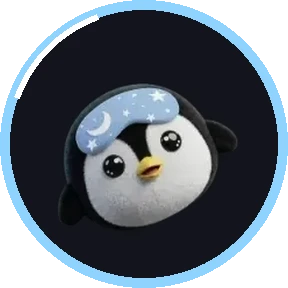
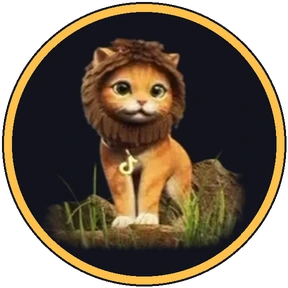
がっちゃんこ：コマを バラ→ローザ→歌うキノコ→コーギー→マネーガン→銀河→クジラ→レオン→ハヤブサ→ライオン→Universe に変更
Claude-Session: https://claude.ai/code/session_01HLDAdxR8EuB7ryd8AUY3Hp

diff --git a/gmerge/index.html b/gmerge/index.html
@@ -151,7 +151,7 @@ canvas{touch-action:none;user-select:none;-webkit-user-select:none}
   </div>
   <div id="cfg" hidden>
     <div class="top"><div id="embedNote" hidden style="background:#5a1020;border:3px solid #ff6a80;border-radius:.6em;padding:.6em .8em;margin:.2em 0 .6em;font-weight:900;line-height:1.5">このページ（Claudeの共有ページ）では、スマホだけの配信（ギフトの受け取り）は動きません。<br>Safariでこちらを開いてください：<br><a href="https://sanpolab.github.io/jan/gmerge/" target="_blank" rel="noopener" style="color:#ffe680;word-break:break-all">https://sanpolab.github.io/jan/gmerge/</a></div>
-<h2>ギフト設定 <small id="verTag" style="font-size:.5em;font-weight:700;color:#9ab;margin-left:.6em">版 11/26 21:21</small></h2>
+<h2>ギフト設定 <small id="verTag" style="font-size:.5em;font-weight:700;color:#9ab;margin-left:.6em">版 11/26 22:36</small></h2>
     <div id="missBox" hidden><h3 style="color:#ff9aa8">届いたけど、どの効果か分からなかったギフト</h3>
     <p>スマホ用のつなぎ先は、ギフトの名前を英語で送ってくることがあります。下で「どの効果のギフトか」を1回えらぶと、次からは自動で反応します（コイン数が同じ効果だけを出しています）。</p>
     <div id="missList"></div></div>
@@ -175,7 +175,7 @@ canvas{touch-action:none;user-select:none;-webkit-user-select:none}
     <p id="tblNote">このChromeで開いた表は、ギフトを変えると数秒で自動で変わります。配信ソフトにURLを貼る場合は、ギフトを変えたあとにもう一度コピーして貼り直してください。</p>
     <h3>ギフト以外</h3>
     <div class="row jam"><div class="nm">コメント<small>バラが1個ふってくる（同じ人は20秒に1回）</small></div><button id="optChat" type="button"></button></div>
-    <div class="row jam"><div class="nm">いいね1000回<small>フィンガーハートが1個ふってくる</small></div><button id="optLike" type="button"></button></div>
+    <div class="row jam"><div class="nm">いいね1000回<small>ローザが1個ふってくる</small></div><button id="optLike" type="button"></button></div>
     <div class="row help"><div class="nm">フォロー<small>ローザが1個ふってくる</small></div><button id="optFollow" type="button"></button></div>
     <div class="row both"><div class="nm">ギフト表のコイン数<small>オフにすると、ギフト表のギフトの絵にコイン数を出さない</small></div><button id="optCoin" type="button"></button></div>
     <h3>画面にのせる文字と写真（スマホの縦画面）</h3>
@@ -200,11 +200,11 @@ canvas{touch-action:none;user-select:none;-webkit-user-select:none}
   </div>
   <div id="tp" hidden>
     <h3>ギフトのコマをふらせる</h3>
-    <button class="j" data-a="drop0">バラ<br>1コイン</button><button class="j" data-a="drop1">フィンガーハート<br>5コイン</button><button class="j" data-a="drop2">ローザ<br>10コイン</button><button class="j" data-a="drop3">香水<br>20コイン</button><button class="j" data-a="drop4">ドーナッツ<br>30コイン</button><button class="j" data-a="drop5">ハンドハート<br>100コイン</button><button class="j" data-a="drop6">愛してる<br>199コイン</button><button class="j" data-a="drop7">うっとりペンギン<br>299コイン</button><button class="j" data-a="drop8">だいすき<br>500コイン</button><button class="j" data-a="drop9">銀河<br>1,000コイン</button><button class="j" data-a="drop10">ライオン<br>29,999コイン</button>
+    <button class="j" data-a="drop0">バラ<br>1コイン</button><button class="j" data-a="drop1">ローザ<br>10コイン</button><button class="j" data-a="drop2">歌うキノコ<br>99コイン</button><button class="j" data-a="drop3">コーギー<br>299コイン</button><button class="j" data-a="drop4">マネーガン<br>1,016コイン</button><button class="j" data-a="drop5">銀河<br>1,000コイン</button><button class="j" data-a="drop6">クジラのダイビング<br>2,150コイン</button><button class="j" data-a="drop7">子猫のレオン<br>4,888コイン</button><button class="j" data-a="drop8">ハヤブサ<br>10,999コイン</button><button class="j" data-a="drop9">ライオン<br>29,999コイン</button><button class="j" data-a="drop10">TikTokUniverse<br>44,999コイン</button>
     <h3>そのほかの効果</h3>
     <button class="j" data-a="shake">ゆらす<br>箱をガタガタゆらす</button><button class="h" data-a="clean">おそうじ<br>小さいコマをぜんぶ消す</button>
     <h3>無料（コメント・いいね・フォロー）</h3>
-    <button class="j" data-a="comment">コメント<br>バラ1個</button><button class="j" data-a="like">いいね×1000<br>フィンガーハート1個</button><button class="j" data-a="follow">フォロー<br>ローザ1個</button>
+    <button class="j" data-a="comment">コメント<br>バラ1個</button><button class="j" data-a="like">いいね×1000<br>ローザ1個</button><button class="j" data-a="follow">フォロー<br>ローザ1個</button>
     <h3>音</h3>
     <button class="g" id="optBgm">BGM</button><button class="g" id="optSe">効果音</button><button class="g" id="optTrack">曲</button>
     <h3>その他</h3>
@@ -216,7 +216,7 @@ canvas{touch-action:none;user-select:none;-webkit-user-select:none}
 <script>
 'use strict';
 const cv=document.getElementById('cv'), g=cv.getContext('2d'), stage=document.getElementById('stage');
-const VER='1126-212129';
+const VER='1126-223651';
 let TITLE=true, PAUSE=false; const PENDQ=[];   /* TITLE＝タイトル画面を出しているか、PAUSE＝一時停止中か、PENDQ＝一時停止の間に届いたギフト（再開したら順番に出す） */
 /* ===== ギフトがっちゃんこ：同じギフト同士がくっつくと、ひとつ上のギフトに進化する「くっつけ落としゲーム」。
    配信者が左右に動かして落とす。視聴者がギフトを投げると、そのギフトのコマが箱の中にふってくる。箱からあふれたら終わり。WINはなく、スコアとベストスコアだけ ===== */
@@ -226,9 +226,7 @@ const rand=(a,b)=>a+Math.random()*(b-a), clamp=(v,a,b)=>Math.max(a,Math.min(b,v)
 const BOX={x0:300,x1:780,top:250,bot:1010,line:318};
 /* コマ（11段階）。r＝半径、pts＝この段階ができた時にもらえる点 */
 const LV=[
- {name:'バラ',coins:1,r:27,pts:1,col:'#ff5c7a'},{name:'フィンガーハート',coins:5,r:37,pts:3,col:'#ffb347'},{name:'ローザ',coins:10,r:49,pts:6,col:'#ff7ad1'},{name:'香水',coins:20,r:61,pts:10,col:'#ff5fa2'},
- {name:'ドーナッツ',coins:30,r:75,pts:15,col:'#6fd8ff'},{name:'ハンドハート',coins:100,r:91,pts:21,col:'#c08bff'},{name:'愛してる',coins:199,r:108,pts:28,col:'#ff8ad8'},{name:'うっとりペンギン',coins:299,r:127,pts:36,col:'#8fd3ff'},
- {name:'だいすき',coins:500,r:148,pts:45,col:'#ffd23f'},{name:'銀河',coins:1000,r:171,pts:55,col:'#7aa2ff'},{name:'ライオン',coins:29999,r:196,pts:66,col:'#ffb300'}];
+ {name:'バラ',coins:1,r:27,pts:1,col:'#ff5c7a'},{name:'ローザ',coins:10,r:37,pts:3,col:'#ff7ad1'},{name:'歌うキノコ',coins:99,r:49,pts:6,col:'#ff6b5c'},{name:'コーギー',coins:299,r:61,pts:10,col:'#ffb347'},{name:'マネーガン',coins:1016,r:75,pts:15,col:'#ff8ad8'},{name:'銀河',coins:1000,r:91,pts:21,col:'#7aa2ff'},{name:'クジラのダイビング',coins:2150,r:108,pts:28,col:'#8fd3ff'},{name:'子猫のレオン',coins:4888,r:127,pts:36,col:'#ffb300'},{name:'ハヤブサ',coins:10999,r:148,pts:45,col:'#c98a4a'},{name:'ライオン',coins:29999,r:171,pts:55,col:'#ffb300'},{name:'TikTok Universe',coins:44999,r:196,pts:66,col:'#6fd8ff'}];
 const CFG={dropCd:.55, nextMax:4, overSec:2.2, graceSec:1.3, maxBodies:140, lionBonus:300, shakeSec:1.6, overWait:6};
 const IMG={}; for(let i=0;i<LV.length;i++){ const im=new Image(); im.src='./img/g'+i+'.webp'; IMG['g'+i]=im; }
 const ok=k=>IMG[k] && IMG[k].complete && IMG[k].naturalWidth>0;
@@ -251,7 +249,7 @@ Events.on(engine,'collisionStart',ev=>{ for(const p of ev.pairs){ const a=p.body
 function doMerges(){ while(mergeQ.length){ const [a,b]=mergeQ.shift(); const lv=a.lv, x=(a.position.x+b.position.x)/2, y=(a.position.y+b.position.y)/2, by=a.by||b.by; Composite.remove(engine.world,a); Composite.remove(engine.world,b);
     if(lv<LV.length-1){ const n=spawn(lv+1,x,y,null); n.born=T-9; Body.setVelocity(n,{x:(a.velocity.x+b.velocity.x)/2,y:(a.velocity.y+b.velocity.y)/2}); S.score+=LV[lv+1].pts; S.biggest=Math.max(S.biggest,lv+1); burst(x,y,LV[lv+1].col,10+lv*2,260+lv*30); S.rings.push({x,y,r:LV[lv+1].r,t:.35,c:LV[lv+1].col}); play(lv>=6?'levelup':lv>=3?'harp2':'pon',.5+lv*.04);
       if(lv+1>=8){ banner(LV[lv+1].name+' ができた！',LV[lv+1].col,'＋'+LV[lv+1].pts+'点'); S.flash=.25; play('cheer',.6); } }
-    else { S.score+=CFG.lionBonus; burst(x,y,'#ffb300',60,700); S.rings.push({x,y,r:260,t:.6,c:'#ffd23f'}); S.flash=.5; S.shake=.6; banner('ライオン同士がくっついた！','#ffd23f','ボーナス ＋'+CFG.lionBonus+'点'); play('cheer',.9); play('levelup',.8); }
+    else { S.score+=CFG.lionBonus; burst(x,y,'#ffb300',60,700); S.rings.push({x,y,r:260,t:.6,c:'#ffd23f'}); S.flash=.5; S.shake=.6; banner('ユニバース同士がくっついた！','#ffd23f','ボーナス ＋'+CFG.lionBonus+'点'); play('cheer',.9); play('levelup',.8); }
     if(S.score>best){ if(!S.newBest && best>0){ S.newBest=true; logAdd('ベストスコア更新中！','#ffd23f'); } best=S.score; } } }
 
 /* ===== 音（効果音は効果音ラボ、BGMは甘茶の音楽工房） ===== */
@@ -285,9 +283,9 @@ const Game={
   reset(){ reset(); },
   /* ゆらす：箱の中のコマをぜんぶガタガタゆらす */
   shake(n){ if(S.mode!=='play') return; S.shakeT=CFG.shakeSec; S.shake=Math.max(S.shake,.5); play('heavy',.7); play('don',.6); logAdd((n||'だれか')+' が箱をゆらした','#ff9aa8'); },
-  /* おそうじ：いちばん小さい2段階（バラ・フィンガーハート）をぜんぶ消す */
+  /* おそうじ：いちばん小さい2段階（バラ・ローザ）をぜんぶ消す */
   clean(n){ if(S.mode!=='play') return; let c=0; for(const b of pieces()){ if(b.lv<=1 && !b.gone){ b.gone=true; burst(b.position.x,b.position.y,'#5dffb0',6,220); Composite.remove(engine.world,b); c++; } } play('harp',.7); S.flash=.2; logAdd((n||'だれか')+' のおそうじ：小さいコマを'+c+'個消した','#5dffb0'); },
-  /* 無料の反応。コメント＝バラ1個（同じ人は20秒に1回）、いいね1000回ごと＝フィンガーハート1個、フォロー＝ローザ1個 */
+  /* 無料の反応。コメント＝バラ1個（同じ人は20秒に1回）、いいね1000回ごと＝ローザ1個、フォロー＝ローザ1個 */
   comment(n){ const now=performance.now(), k=String(n||''); if(CMT[k] && now-CMT[k]<20000) return; CMT[k]=now; giftDrop(0,n); },
   like(c,n){ likeAcc+=Math.max(1,c|0); let k=0; while(likeAcc>=1000 && k<3){ likeAcc-=1000; k++; giftDrop(1,n); } if(likeAcc>=1000) likeAcc=likeAcc%1000; },
   follow(n){ giftDrop(2,n); } };
@@ -368,18 +366,18 @@ function optSave(){ try{ localStorage.setItem('gmerge_opts',JSON.stringify(OPT))
 function runFx(fn){ if(TITLE){ tfLogAdd('タイトル画面なので何も起きません（スタートを押してください）'); return; } if(PAUSE){ PENDQ.push(fn); return; } fn(); }
 const FX_LIST=[
  ['drop0','jam','バラ','このギフトのコマが箱にふってくる',n=>Game.drop0(n)],
- ['drop1','jam','フィンガーハート','このギフトのコマが箱にふってくる',n=>Game.drop1(n)],
- ['drop2','jam','ローザ','このギフトのコマが箱にふってくる',n=>Game.drop2(n)],
- ['drop3','jam','香水','このギフトのコマが箱にふってくる',n=>Game.drop3(n)],
- ['drop4','jam','ドーナッツ','このギフトのコマが箱にふってくる',n=>Game.drop4(n)],
- ['drop5','jam','ハンドハート','このギフトのコマが箱にふってくる',n=>Game.drop5(n)],
- ['drop6','jam','愛してる','このギフトのコマが箱にふってくる',n=>Game.drop6(n)],
- ['drop7','jam','うっとりペンギン','このギフトのコマが箱にふってくる',n=>Game.drop7(n)],
- ['drop8','jam','だいすき','このギフトのコマが箱にふってくる',n=>Game.drop8(n)],
- ['drop9','jam','銀河','このギフトのコマが箱にふってくる',n=>Game.drop9(n)],
- ['drop10','jam','ライオン','このギフトのコマが箱にふってくる',n=>Game.drop10(n)],
+ ['drop1','jam','ローザ','このギフトのコマが箱にふってくる',n=>Game.drop1(n)],
+ ['drop2','jam','歌うキノコ','このギフトのコマが箱にふってくる',n=>Game.drop2(n)],
+ ['drop3','jam','コーギー','このギフトのコマが箱にふってくる',n=>Game.drop3(n)],
+ ['drop4','jam','マネーガン','このギフトのコマが箱にふってくる',n=>Game.drop4(n)],
+ ['drop5','jam','銀河','このギフトのコマが箱にふってくる',n=>Game.drop5(n)],
+ ['drop6','jam','クジラのダイビング','このギフトのコマが箱にふってくる',n=>Game.drop6(n)],
+ ['drop7','jam','子猫のレオン','このギフトのコマが箱にふってくる',n=>Game.drop7(n)],
+ ['drop8','jam','ハヤブサ','このギフトのコマが箱にふってくる',n=>Game.drop8(n)],
+ ['drop9','jam','ライオン','このギフトのコマが箱にふってくる',n=>Game.drop9(n)],
+ ['drop10','jam','TikTokUniverse','このギフトのコマが箱にふってくる',n=>Game.drop10(n)],
  ['shake','jam','ゆらす','箱の中をガタガタゆらす',n=>Game.shake(n)],
- ['clean','help','おそうじ','小さいコマ（バラ・フィンガーハート）をぜんぶ消す',n=>Game.clean(n)]];
+ ['clean','help','おそうじ','小さいコマ（バラ・ローザ）をぜんぶ消す',n=>Game.clean(n)]];
 /* スマホ用のつなぎ先（tik.tools）。オンの間はTikFinityのかわりに、ネット経由で同じ形の知らせを受け取る。キーはこの端末にだけ保存 */
 const HOME_URL='https://sanpolab.github.io/jan/gmerge/', EMBED=!/(^|\.)github\.io$|^localhost$|^127\./.test(location.hostname);   // EMBED：Claudeの共有ページなど、正式なアドレス以外で開いている
 let CLOUD={on:false,user:'',key:''}; try{ Object.assign(CLOUD,JSON.parse(localStorage.getItem('gmerge_cloud')||'{}')); }catch(e){}
@@ -390,7 +388,7 @@ const TF={raw:[],kinds:{},tries:0,lna:null,urls:['ws://localhost:21213/','ws://1
 try{ TF.map=JSON.parse(localStorage.getItem('gmerge_gifts')||'{}')||{}; }catch(e){ TF.map={}; }
 const tfNorm=t=>String(t||'').trim().toLowerCase().replace(/\s+/g,'').replace(/！/g,'!').replace(/？/g,'?').replace(/[〜～]/g,'~').replace(/[．。]/g,'.');
 /* はじめて開いた時だけ、ギフトの割り当てのたたき台を入れる（あとから自由に変えられる） */
-if(!localStorage.getItem('gmerge_gdef')){ try{ localStorage.setItem('gmerge_gdef','1'); }catch(e){} if(!Object.keys(TF.map).some(k=>TF.map[k] && TF.map[k].name)){ TF.map={"drop0": {"id": null, "name": "バラ", "coins": 1, "ci": 1, "pic": null}, "drop1": {"id": null, "name": "フィンガーハート", "coins": 5, "ci": 28, "pic": null}, "drop2": {"id": null, "name": "ローザ", "coins": 10, "ci": 37, "pic": null}, "drop3": {"id": null, "name": "香水", "coins": 20, "ci": 55, "pic": null}, "drop4": {"id": null, "name": "ドーナッツ", "coins": 30, "ci": 58, "pic": null}, "drop5": {"id": null, "name": "ハンドハート", "coins": 100, "ci": 87, "pic": null}, "drop6": {"id": null, "name": "愛してる", "coins": 199, "ci": 107, "pic": null}, "drop7": {"id": null, "name": "うっとりペンギン", "coins": 299, "ci": 174, "pic": null}, "drop8": {"id": null, "name": "だいすき", "coins": 500, "ci": 310, "pic": null}, "drop9": {"id": null, "name": "銀河", "coins": 1000, "ci": 347, "pic": null}, "drop10": {"id": null, "name": "ライオン", "coins": 29999, "ci": 464, "pic": null}}; try{ localStorage.setItem('gmerge_gifts',JSON.stringify(TF.map)); }catch(e){} } }
+if(!localStorage.getItem('gmerge_gdef')){ try{ localStorage.setItem('gmerge_gdef','1'); }catch(e){} if(!Object.keys(TF.map).some(k=>TF.map[k] && TF.map[k].name)){ TF.map={"drop0": {"id": null, "name": "バラ", "coins": 1, "ci": 1, "pic": null}, "drop1": {"id": null, "name": "ローザ", "coins": 10, "ci": 37, "pic": null}, "drop2": {"id": null, "name": "歌うキノコ", "coins": 99, "ci": 63, "pic": null}, "drop3": {"id": null, "name": "コーギー", "coins": 299, "ci": 155, "pic": null}, "drop4": {"id": null, "name": "マネーガン", "coins": 1016, "ci": 357, "pic": null}, "drop5": {"id": null, "name": "銀河", "coins": 1000, "ci": 347, "pic": null}, "drop6": {"id": null, "name": "クジラのダイビング", "coins": 2150, "ci": 389, "pic": null}, "drop7": {"id": null, "name": "子猫のレオン", "coins": 4888, "ci": 413, "pic": null}, "drop8": {"id": null, "name": "ハヤブサ", "coins": 10999, "ci": 439, "pic": null}, "drop9": {"id": null, "name": "ライオン", "coins": 29999, "ci": 464, "pic": null}, "drop10": {"id": null, "name": "TikTokUniverse", "coins": 44999, "ci": 474, "pic": null}}; try{ localStorage.setItem('gmerge_gifts',JSON.stringify(TF.map)); }catch(e){} } }
 function tfSave(){ try{ localStorage.setItem('gmerge_gifts',JSON.stringify(TF.map)); }catch(e){} }
 // 名前が合わずに「割り当てなし」になったギフトを覚えておき、設定画面で「どの効果か」を1回えらべば、届いた名前とIDをその効果に結びつける
 let MISS=[]; try{ MISS=JSON.parse(localStorage.getItem('gmerge_miss')||'[]')||[]; }catch(e){}
@@ -496,7 +494,7 @@ function pickDraw(){ const tb=document.getElementById('pickTabs'); tb.innerHTML=
     b.appendChild(gi); b.appendChild(sp); b.appendChild(em); b.addEventListener('click',()=>{ TF.map[pickFx[0]]={id:null,name:e[0],coins:e[1],ci:i,pic:null}; tfSave(); document.getElementById('pick').hidden=true; cfgBuild(); }); fr.appendChild(b); });
   g.appendChild(fr); if(!g.children.length){ const d=document.createElement('p'); d.textContent='見つかりませんでした'; g.appendChild(d); } }
 /* ギフト表に出す名前（自分で変えた分だけ入る）。TBL_NAME=元の名前 */
-const TBL_NAME={"drop0": "バラ", "drop1": "フィンガーハート", "drop2": "ローザ", "drop3": "香水", "drop4": "ドーナッツ", "drop5": "ハンドハート", "drop6": "愛してる", "drop7": "うっとりペンギン", "drop8": "だいすき", "drop9": "銀河", "drop10": "ライオン", "shake": "箱をゆらす", "clean": "小さいの消す"}; let LBL={}; try{ LBL=JSON.parse(localStorage.getItem('gmerge_lbl')||'{}')||{}; }catch(e){ LBL={}; } function lblSave(){ try{ localStorage.setItem('gmerge_lbl',JSON.stringify(LBL)); }catch(e){} }
+const TBL_NAME={"drop0": "バラ", "drop1": "ローザ", "drop2": "歌うキノコ", "drop3": "コーギー", "drop4": "マネーガン", "drop5": "銀河", "drop6": "クジラのダイビング", "drop7": "子猫のレオン", "drop8": "ハヤブサ", "drop9": "ライオン", "drop10": "TikTokUniverse", "shake": "箱をゆらす", "clean": "小さいの消す"}; let LBL={}; try{ LBL=JSON.parse(localStorage.getItem('gmerge_lbl')||'{}')||{}; }catch(e){ LBL={}; } function lblSave(){ try{ localStorage.setItem('gmerge_lbl',JSON.stringify(LBL)); }catch(e){} }
 let tblCols=7; try{ tblCols=parseInt(localStorage.getItem('gmerge_tblcols'),10)||7; }catch(e){}
 function tblUrl(){ const parts=[]; for(const f of FX_LIST){ const b=TF.map[f[0]]; if(!b || !b.name || b.off) continue; parts.push(f[0]+'.'+(b.ci!=null?b.ci:'n'+encodeURIComponent(b.name))+(b.coins!=null?'.'+b.coins:'')); }
   const base=new URL('./gifts.html',location.href); return base.origin+base.pathname+'?cols='+tblCols+'#o='+(OPT.followOn?1:0)+(OPT.likeOn?1:0)+(OPT.coinOn?1:0)+(OPT.chatOn?1:0)+'&g='+parts.join(',')+(()=>{ const l=Object.keys(LBL).filter(k=>LBL[k]&&TBL_NAME[k]).map(k=>k+'.'+encodeURIComponent(encodeURIComponent(LBL[k]))); return l.length?'&l='+l.join(','):''; })(); }

diff --git a/gmerge/gifts.html b/gmerge/gifts.html
@@ -37,7 +37,7 @@ html,body{margin:0;background:#000;color:#fff;font-family:'MPR','Hiragino Kaku G
 <script>
 /* ギフトがっちゃんこのギフト表。ゲームの「ギフト」画面で登録した割り当てをそのまま表示する。
    URLの後ろに ?cols=9（1段の数）や ?all=1（未登録の効果も出す）を付けられる */
-const FX=[["drop0", "jam", "バラ"], ["drop1", "jam", "フィンガーハート"], ["drop2", "jam", "ローザ"], ["drop3", "jam", "香水"], ["drop4", "jam", "ドーナッツ"], ["drop5", "jam", "ハンドハート"], ["drop6", "jam", "愛してる"], ["drop7", "jam", "うっとりペンギン"], ["drop8", "jam", "だいすき"], ["drop9", "jam", "銀河"], ["drop10", "jam", "ライオン"], ["shake", "jam", "箱をゆらす"], ["clean", "help", "小さいの消す"]];
+const FX=[["drop0", "jam", "バラ"], ["drop1", "jam", "ローザ"], ["drop2", "jam", "歌うキノコ"], ["drop3", "jam", "コーギー"], ["drop4", "jam", "マネーガン"], ["drop5", "jam", "銀河"], ["drop6", "jam", "クジラのダイビング"], ["drop7", "jam", "子猫のレオン"], ["drop8", "jam", "ハヤブサ"], ["drop9", "jam", "ライオン"], ["drop10", "jam", "TikTokUniverse"], ["shake", "jam", "箱をゆらす"], ["clean", "help", "小さいの消す"]];
 const q=new URLSearchParams(location.search), cols=Math.max(3,Math.min(13,parseInt(q.get('cols'),10)||9)), showAll=q.get('all')==='1';
 document.documentElement.style.setProperty('--cols',cols);
 let last='', CATN=0, CATL=null; const nrm=t=>String(t||'').trim().toLowerCase().replace(/\s+/g,'').replace(/！/g,'!').replace(/？/g,'?').replace(/[〜～]/g,'~').replace(/[．。]/g,'.'); fetch('./gifts_cat.json').then(r=>r.json()).then(j=>{ CATL=j; CATN=j.length; last=''; build(); }).catch(()=>{});
@@ -51,8 +51,8 @@ function build(){ const m=load(); if(CATL) for(const k in m){ const b=m[k]; if(b
   const COIN_ON=op.coinOn!==false;
   const free=(svg,label,icon,kind)=>{ const c=document.createElement('div'); c.className='c '+(kind||'jam'); const pair=document.createElement('div'); pair.className='pair'; const gd=document.createElement('div'); gd.className='g'; gd.innerHTML=svg; const fx=document.createElement('div'); const fi=document.createElement('img'); fi.src='./img/fx/'+icon+'.webp'; fx.appendChild(fi); pair.appendChild(gd); pair.appendChild(fx); const nm=document.createElement('div'); nm.className='nm'; nm.textContent=label; c.appendChild(pair); c.appendChild(nm); g.appendChild(c); };
   if(op.chatOn!==false) free('<svg viewBox="0 0 100 100"><path d="M10 14h80a6 6 0 0 1 6 6v44a6 6 0 0 1-6 6H44L22 90V70H10a6 6 0 0 1-6-6V20a6 6 0 0 1 6-6z" fill="#58b8ff"/><circle cx="30" cy="42" r="6" fill="#fff"/><circle cx="50" cy="42" r="6" fill="#fff"/><circle cx="70" cy="42" r="6" fill="#fff"/></svg>','バラ','drop0');
-  if(op.followOn) free('<svg viewBox="0 0 100 100"><circle cx="40" cy="30" r="20" fill="#3ddc6a"/><path d="M6 92c0-24 15-38 34-38s34 14 34 38z" fill="#3ddc6a"/><path d="M78 40v34M61 57h34" stroke="#3ddc6a" stroke-width="11" stroke-linecap="round"/></svg>','ローザ','drop2','help');
-  if(op.likeOn) free('<svg viewBox="0 0 100 100"><path d="M50 90C20 68 6 52 6 33 6 18 17 8 30 8c8 0 15 4 20 11 5-7 12-11 20-11 13 0 24 10 24 25 0 19-14 35-44 57z" fill="#ff3b5c"/><text x="50" y="57" text-anchor="middle" font-size="27" font-weight="900" fill="#fff" font-family="MPR,sans-serif">1000</text></svg>','フィンガーハート','drop1');
+  if(op.followOn) free('<svg viewBox="0 0 100 100"><circle cx="40" cy="30" r="20" fill="#3ddc6a"/><path d="M6 92c0-24 15-38 34-38s34 14 34 38z" fill="#3ddc6a"/><path d="M78 40v34M61 57h34" stroke="#3ddc6a" stroke-width="11" stroke-linecap="round"/></svg>','ローザ','drop1','help');
+  if(op.likeOn) free('<svg viewBox="0 0 100 100"><path d="M50 90C20 68 6 52 6 33 6 18 17 8 30 8c8 0 15 4 20 11 5-7 12-11 20-11 13 0 24 10 24 25 0 19-14 35-44 57z" fill="#ff3b5c"/><text x="50" y="57" text-anchor="middle" font-size="27" font-weight="900" fill="#fff" font-family="MPR,sans-serif">1000</text></svg>','ローザ','drop1');
   for(const f of FX){ const b=m[f[0]]; if(!showAll && any && !(b&&b.name)) continue; const c=document.createElement('div'); c.className='c '+f[1];
     const pair=document.createElement('div'); pair.className='pair'; const gd=document.createElement('div'); gd.className='g';
     if(b&&b.ci!=null){ const d2=document.createElement('div'); d2.className='sp'; const rows=CATN?Math.ceil(CATN/24):20; d2.style.backgroundSize='2400% '+(rows*100)+'%'; d2.style.backgroundPosition=((b.ci%24)/23*100)+'% '+(rows>1?(Math.floor(b.ci/24)/(rows-1)*100):0)+'%'; gd.appendChild(d2); }
